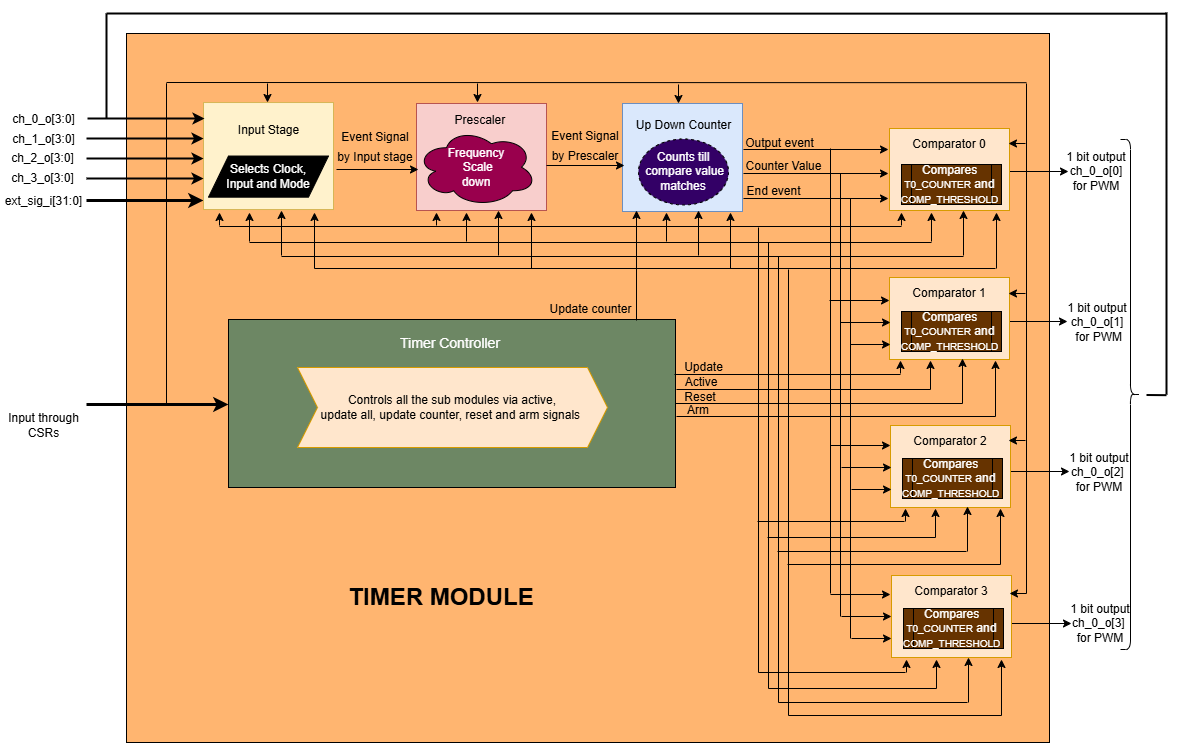
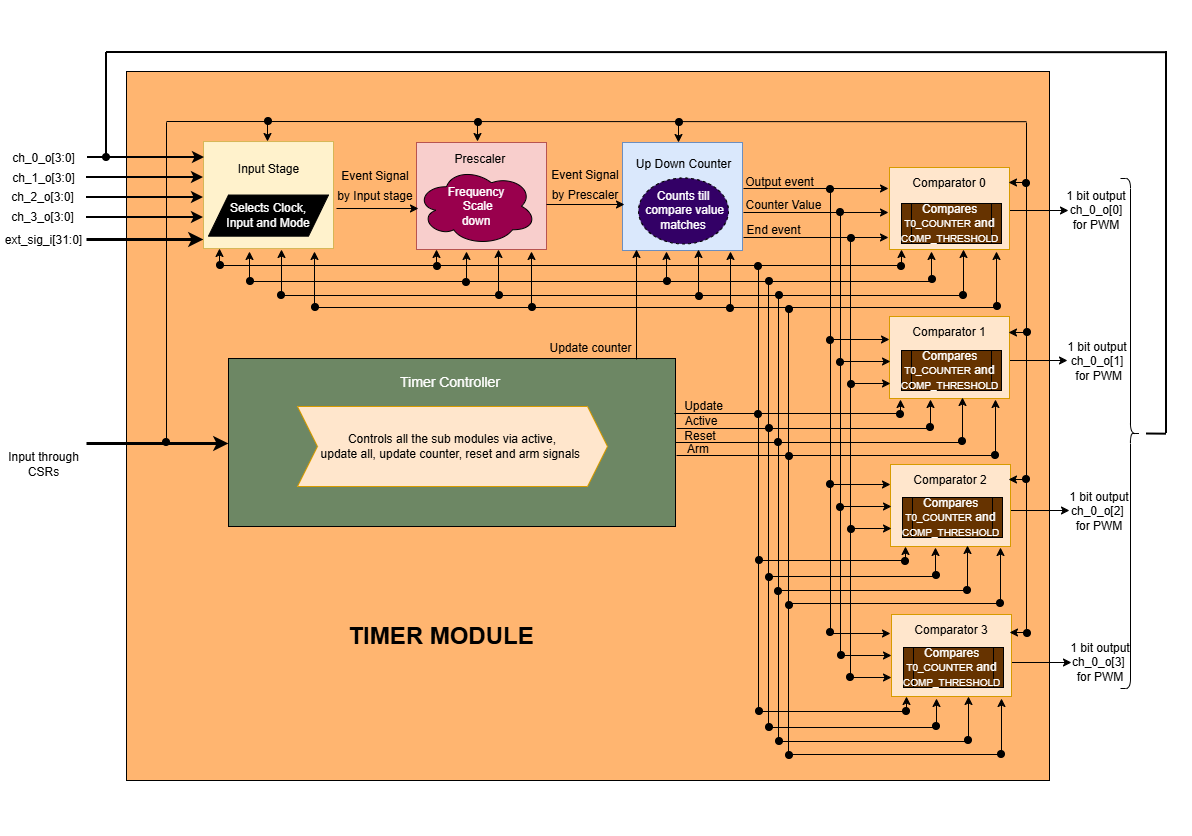
incorporated the review comments

diff --git a/docs/doc-src/ip-blocks/apb_adv_timer.rst b/docs/doc-src/ip-blocks/apb_adv_timer.rst
@@ -25,15 +25,17 @@ These four timers can be configured independently to support four unique PWM gen
 Features
 --------
 
-- Multiple trigger input sources:
 
-  - PWM output signals of all 4 timers
-  - 32 GPIOs
 
 - Multiple clock sources:
 
-  - Reference clock at 32kHz
+  - low_speed_clk_i clock
   - HCLK clock
+
+- Multiple input sources:
+
+  - PWM output signals of all 4 timers as input to the APB Advanced Timer.
+  - GPIOs are inputs to the APB Advanced Timer
 
 - Configurable input trigger modes for each timer
 - Configurable prescaler for each timer
@@ -1789,9 +1791,9 @@ Firmware Guidelines
 
 Initialization:
 ~~~~~~~~~~~~~~~
-- When the HRESETn signal is low, CSRs default to 0, and outputs are low.
-- Four timer modules have four clock gates, which will be enabled(meaning they pass the ref clock to the respective timer module). only when either dft_cg_enable_i is high or the bit in respective position of REG_CH_EN CSR is high(0th bit for timer_0,1st bit for timer_1,etc).
-- At every positive edge of the clock, the CSR CSRs are updated based on APB signals.
+- When the HRESETn signal is low, all CSRs are set to their default value.
+- Four timer modules have four clock gates, which will be enabled(meaning they pass the ref clock to the respective timer module), only when either dft_cg_enable_i is high or the bit in respective position of REG_CH_EN CSR is high(0th bit for timer_0,1st bit for timer_1,etc).
+- At every positive edge of the clock, the CSRs are updated based on APB signals.
 - FW can update the below bitfields to any custom value before the START bitfield in the REG_TIMx_CMD CSR (where x = 0 to 3 for Timer0 to Timer3) CSR is set to '1' and the timer is not active yet (which means the timer is started for the first time). Otherwise, all the config values of all sub-modules are commanded to be updated to the default.
 
   - The CLK_ENABLE bitfields of REG_CH_EN.
@@ -1806,14 +1808,11 @@ Initialization:
 
   - The OUT_SEL_EVT_ENABLE, OUT_SEL_EVT3, OUT_SEL_EVT2, OUT_SEL_EVT1 and OUT_SEL_EVT0 bitfields of REG_EVENT_CFG 
 
-  - Here, the general update of all the config happens in sync with the positive edge of the clock, but the configuration of certain bitfields like COUNT_START, COUNT_END, direction, and SAWTOOTH are updated immediately. 
-
 PWM generation or Start the Timer:
 ~~~~~~~~~~~~~~~~~~~~~~~~~~~~~~~~~~
 
 FW can start the timer or PWM generation via the steps below.
 
-- When the External input/stimulus ext_sig_i is provided by the APB_GPIO.
 - START bitfield in the REG_TIMx_CMD CSR (where x = 0 to 3 for Timer0 to Timer3) is set to '1'and STOP bitfield in the REG_TIMx_CMD CSR (where x = 0 to 3 for Timer0 to Timer3) is set to '0', then all the timer and its sub modules are made active.
 
 This input signal is processed by the APB ADVANCED TIMER according to the CSR configurations.